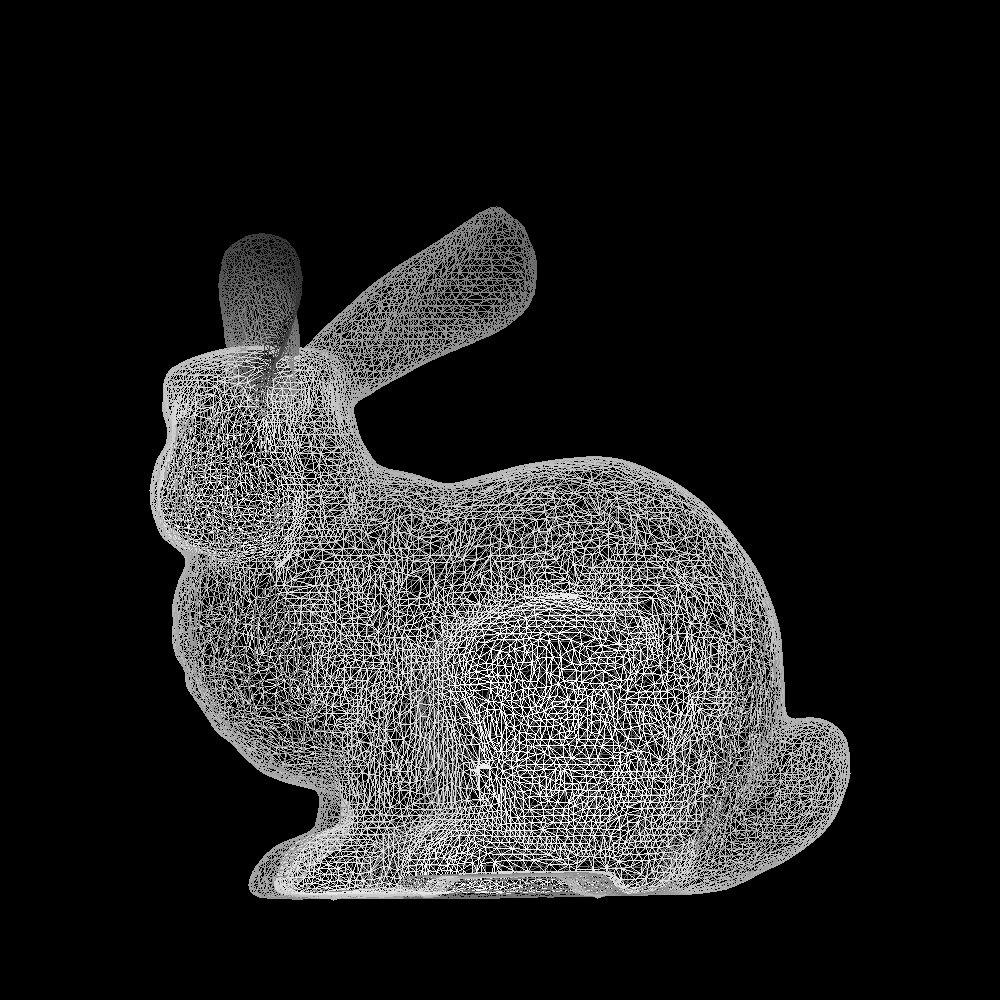
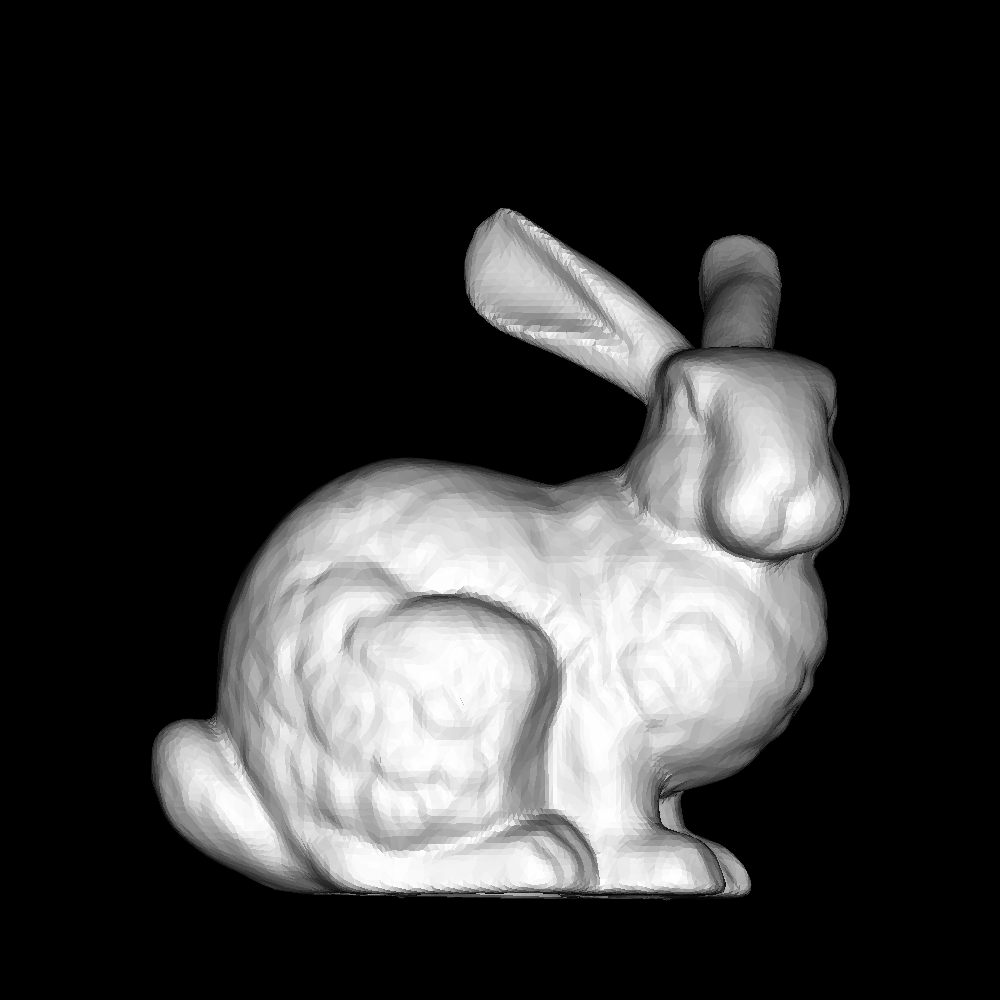
lab-2 with rotation

diff --git a/main.py b/main.py
@@ -1,9 +1,10 @@
 import numpy as np
 from random import randint 
-from math import floor
+from math import floor, ceil, sin, cos, radians
 from PIL import Image
 
 img_mat = np.zeros((1000, 1000, 3), dtype=np.uint8)
+z_buf = np.full((1000, 1000), float('inf'), dtype=np.float32)
 
 # for i in range(1000):
 #     for j in range(1000):
@@ -37,6 +38,46 @@ def line(img_mat, y0, x0, y1, x1, z0=0, z1=0):
             z_f += dz
 
 
+def bar_coords(y, x, y0, x0, y1, x1, y2, x2):
+    dinom = ((x0 - x2) * (y1 - y2) - (x1 - x2) * (y0 - y2))
+
+    lambda0 = ((x - x2) * (y1 - y2) - (x1 - x2) * (y - y2)) / dinom
+    lambda1 = ((x0 - x2) * (y - y2) - (x - x2) * (y0 - y2)) / dinom
+    lambda2 = 1.0 - lambda0 - lambda1
+
+    return lambda0, lambda1, lambda2
+
+
+# Подаём на вход вещественные координаты вершин. 
+# Учесть, что они положительные
+def print_triangle(img_mat, z_buf, y0, x0, z0, y1, x1, z1, y2, x2, z2, canvas_width = 999, canvas_height = 999, base_color = [255, 255, 255]):
+    xmin = floor(min(x0, x1, x2))
+    xmax = ceil(max(x0, x1, x2))
+    ymin = floor(min(y0, y1, y2))
+    ymax = ceil(max(y0, y1, y2))
+
+    if (xmin < 0): xmin = 0
+    if (ymin < 0): ymin = 0
+    if (xmax > canvas_width): xmax = canvas_width
+    if (ymax > canvas_height): ymax = canvas_height
+
+    for y in range(ymin, ymax + 1):
+        for x in range(xmin, xmax + 1):
+            h0, h1, h2 = bar_coords(y, x, y0, x0, y1, x1, y2, x2)
+
+            if (h0 >= 0) and (h1 >= 0) and (h2 >= 0):
+                zpol = h0*z0 + h1*z1 + h2*z2
+
+                if zpol < z_buf[y, x]:
+                    img_mat[y, x] = base_color
+                    z_buf[y, x] = zpol
+
+def triangle_normal(x0, y0, z0, x1, y1, z1, x2, y2, z2):
+    a = np.array([x1 - x2, y1 - y2, z1 - z2])
+    b = np.array([x1 - x0, y1 - y0, z1 - z0])
+    return np.cross(a, b)
+
+
 def z_color(z):
     c = floor(50 + 205 * (z - z_min) / (z_max - z_min))
     return [c, c, c]
@@ -57,22 +98,40 @@ with open("model.obj", "r") as file:
 
     # print(f)
 
+alpha = radians(180)
+for i in range(len(v)):
+    x, y, z = v[i]
+    v[i] = [x * cos(alpha) + z * sin(alpha), y, -x * sin(alpha) + z * cos(alpha)]
+
+
 z_min = min(p[2] for p in v)
 z_max = max(p[2] for p in v)
 
-for i in range(len(v)):
-    x, y, z = v[i]
-    img_mat[floor(-y*7000+900), floor(x*7000+500)] = [i % 256, (i+1) % 256, (i+2) % 256]
+# Lab-1
+# for i in range(len(v)):
+#     x, y, z = v[i]
+#     img_mat[floor(-y*7000+900), floor(x*7000+500)] = [i % 256, (i+1) % 256, (i+2) % 256]
 
 for i in range(len(f)):
     x0, y0, z0 = v[f[i][0]-1]
     x1, y1, z1 = v[f[i][1]-1]
     x2, y2, z2 = v[f[i][2]-1]
 
-    line(img_mat, -y0*7000+900, x0*7000+500, -y1*7000+900, x1*7000+500, z0, z1)
-    line(img_mat, -y1*7000+900, x1*7000+500, -y2*7000+900, x2*7000+500, z1, z2)
-    line(img_mat, -y2*7000+900, x2*7000+500, -y0*7000+900, x0*7000+500, z2, z0)
+    # Lab-1
+    # line(img_mat, -y0*7000+900, x0*7000+500, -y1*7000+900, x1*7000+500, z0, z1)
+    # line(img_mat, -y1*7000+900, x1*7000+500, -y2*7000+900, x2*7000+500, z1, z2)
+    # line(img_mat, -y2*7000+900, x2*7000+500, -y0*7000+900, x0*7000+500, z2, z0)
 
+    
+    
+    l = np.array((0, 0, 1))
+    n = triangle_normal(x0, y0, z0, x1, y1, z1, x2, y2, z2)
+    light_cos = np.dot(n, l) / (np.linalg.norm(n) * np.linalg.norm(l))
+
+    if light_cos < 0:
+        # print_triangle(img_mat, z_buf, -y0*7000+900, x0*7000+500, z0*7000, -y1*7000+900, x1*7000+500, z1*7000, -y2*7000+900, x2*7000+500, z2*7000, base_color=z_color((z0 + z1 + z2) / 3))
+        # print_triangle(img_mat, z_buf, -y0*7000+900, x0*7000+500, z0*7000, -y1*7000+900, x1*7000+500, z1*7000, -y2*7000+900, x2*7000+500, z2*7000, base_color=[randint(0, 255), randint(100, 255), randint(100, 255)])
+        print_triangle(img_mat, z_buf, -y0*7000+900, x0*7000+500, z0*7000, -y1*7000+900, x1*7000+500, z1*7000, -y2*7000+900, x2*7000+500, z2*7000, base_color=[-255*light_cos, -255*light_cos, -255*light_cos])
 
 img = Image.fromarray(img_mat)
 img.save("image.png") 

diff --git a/lab-2.py b/lab-2.py
@@ -1,0 +1,48 @@
+import numpy as np
+from random import randint 
+from math import floor, ceil
+from PIL import Image
+
+img_mat = np.zeros((1000, 1000, 3), dtype=np.uint8)
+
+
+
+def bar_coords(y, x, y0, x0, y1, x1, y2, x2):
+    dinom = ((x0 - x2) * (y1 - y2) - (x1 - x2) * (y0 - y2))
+
+    lambda0 = ((x - x2) * (y1 - y2) - (x1 - x2) * (y - y2)) / dinom
+    lambda1 = ((x0 - x2) * (y - y2) - (x - x2) * (y0 - y2)) / dinom
+    lambda2 = 1.0 - lambda0 - lambda1
+
+    return lambda0, lambda1, lambda2
+
+
+# Подаём на вход вещественные координаты вершин. 
+# Учесть, что они положительные
+def print_triangle(img_mat, y0, x0, y1, x1, y2, x2, canvas_width = 999, canvas_height = 999, base_color = [255, 255, 255]):
+    xmin = floor(min(x0, x1, x2))
+    xmax = ceil(max(x0, x1, x2))
+    ymin = floor(min(y0, y1, y2))
+    ymax = ceil(max(y0, y1, y2))
+
+    if (xmin < 0): xmin = 0
+    if (ymin < 0): ymin = 0
+    if (xmax > canvas_width): xmax = canvas_width
+    if (ymax > canvas_height): ymax = canvas_height
+
+    for y in range(ymin, ymax + 1):
+        for x in range(xmin, xmax + 1):
+            h1, h2, h3 = bar_coords(y, x, y0, x0, y1, x1, y2, x2)
+
+            if (h1 >= 0) and (h2 >= 0) and (h3 >= 0):
+                img_mat[y, x] = base_color
+
+
+print_triangle(img_mat, 100.3, 100.2, 200.5, 300.7, 400.1, 150.9)
+print_triangle(img_mat, 300.3, 300.2, 500.5, 600.7, 700.1, 400.9)
+print_triangle(img_mat, 600.3, -8.0, 800.5, 800.7, 900.1, 550.9)
+print_triangle(img_mat, -437, -8.0, -800.5, -800.7, -900.1, -550.9) 
+
+
+img = Image.fromarray(img_mat)
+img.save("image-lab2.png") 
